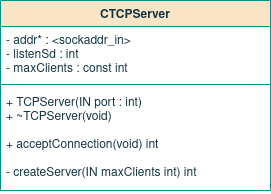
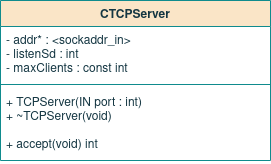
Update Remote sys corrections

diff --git a/report/texts/sw_remote_system.tex b/report/texts/sw_remote_system.tex
@@ -55,7 +55,7 @@ The class \textit{CClient}, represented in figure \ref{fig:CClient}, is responsi
 %****************************
 \myparagraph{Class CDataBase}
 
-%This class diagram is shown in figure \ref{fig:CDataBase}, and is responsible for implement the interface between the server and the database, having for that a pointer to a database of type \textit{MYSQL}. To interact with the database, the server must first prepare a query, using the function \textit{prepareQuery}, and can update or get data from the database, using the prepared query and the functions \textit{updateData} and \textit{getData}, respectively.
+This class diagram is shown in figure \ref{fig:CDataBase}, and is responsible for implement the interface between the server and the database, having for that a pointer to a database of type \textit{MYSQL}. To interact with the database, the server must first prepare a query, using the function \textit{prepareQuery}, and can execute the prepared query in the database using the method \textit{execute}, that returns an error and assigns the command output to the string \textit{outMessage}.
 
 \begin{figure}[H]
 	\centering
@@ -69,13 +69,13 @@ The class \textit{CClient}, represented in figure \ref{fig:CClient}, is responsi
 One can define and describe briefly how the remote system is implemented, making use of threads and processes. 
 
 \begin{itemize}
-	\item \textbf{tSend:} sends a message to the client;
-	\item \textbf{tRecv:} receives a message from the client.
+	\item \textbf{CClient::tSend:} sends a message to the client;
+	\item \textbf{CClient::tRecv:} receives a message from the client.
 \end{itemize}
 
 %**********************************************************
 \subsection{Task Priority}
-The priority assignment for the remote system is shown in figure \ref{fig:rsPrio}. The thread \textit{tRecv} has a higher priority than the thread \textit{tSend} because one never knows when a client is going to send a message. 
+The priority assignment for the remote system is shown in figure \ref{fig:rsPrio}. 
 
 \begin{figure}[H]
 	\centering
@@ -147,7 +147,7 @@ In figure \ref{fig:rsRun} is shown the \textit{CRemoteSystem} run method. Is is 
 %********************************
 \myparagraph{CTCPServer}
 
-In figure \ref{fig:ServerConst} is represented the constructor of the \textit{CTPCServer} class, that is responsible for creating the server socket in the port passed by argument, using the function \textit{createServer}.
+In figure \ref{fig:ServerConst} is represented the constructor of the \textit{CTPCServer} class, that is responsible for creating the server socket in the port passed by argument for a maximum number of clients, \textit{maxClient}. This constructor creates a server socket with the IPv4 protocol connection, initialize the \textit{addr} with the port number passed by argument, binds the socket and listen to a maximum number of clients connections specified by \textit{maxClient} passed by argument.
 
 \begin{figure}[H]
 	\centering
@@ -156,21 +156,12 @@ In figure \ref{fig:ServerConst} is represented the constructor of the \textit{CT
 	\label{fig:ServerConst}
 \end{figure}
 
-The function that creates a server socket for a maximum number of clients, \textit{maxClient}, is represented in figure \ref{fig:RSCreateServer}. This function create a server socket with the IPv4 protocol connection, initialize the \textit{addr} with the port number passed by argument, binds the socket and listen to a maximum number of clients connections specified by \textit{maxClient} passed by argument.
-
-\begin{figure}[H]
-	\centering
-	\includegraphics[width=.25\textwidth]{09sw_specification/RS/CTCPServer/CreateServer}
-	\caption{Flowchart: CTCPServer createServer.}
-	\label{fig:RSCreateServer}
-\end{figure}
-
 In figure \ref{fig:acceptConn} is represented the \textit{acceptConnection} method, that accepts a connection from a client in the socket referenced by the socket file descriptor \textit{listenSd}, returning the file descriptor of the new connection, \textit{sd}.
 
 \begin{figure}[H]
 	\centering
-	\includegraphics[width=.25\textwidth]{09sw_specification/RS/CTCPServer/acceptConnection}
-	\caption{Flowchart: CTCPServer acceptConnection.}
+	\includegraphics[width=.25\textwidth]{09sw_specification/RS/CTCPServer/accept}
+	\caption{Flowchart: CTCPServer accept.}
 	\label{fig:acceptConn}
 \end{figure}
 
@@ -237,8 +228,6 @@ The figure \ref{fig:RSRecv} shows the thread that receive messages from the clie
 	\caption{Flowchart: CClient tRecv.}
 	\label{fig:RSRecv}
 \end{figure}
-
-%In figure \ref{fig:parseExecute} is represented the flowchart of the \textit{parseExecute} function, that is responsible for parsing and execute the message sent by the client. It is needed to verify if the client that sent the command has rights to execute that command, so the message sent is searched in the \textit{cmdList} assigned to the respective client. If the message corresponds to a valid command for that client, then one can prepare a query and execute the command according to the type of command that was sent: \textit{delete} for a data deletion, \textit{update} for a data update and \textit{get} for a data request, returning the command output in a string message \textit{msg}. If the command doesn't exist in the command list of that client, then the \textit{msg} is assigned with an error message. The output of this function is the string message, \textit{msg}.
 
 In figure \ref{fig:parseExecute} is represented the flowchart of the \textit{parseExecute} function, that is responsible for parsing and execute the message sent by the client. It is needed to verify if the client that sent the command has rights to execute that command, so the command sent is searched in the \textit{cmdList} assigned to the respective client. If the message corresponds to a valid command for that client, then one can execute the command. If the command doesn't exist in the command list of that client, then the \textit{msg} is assigned with an error message. The output of this function is the string message to be sent back to the client, \textit{msg}.
 

diff --git a/report/texts/sw_specification.tex b/report/texts/sw_specification.tex
@@ -10,7 +10,7 @@
 %**********************************************************
 \clearpage
 \section{Remote System}
-
+\input{./texts/sw_remote_system}
 
 %**********************************************************
 \clearpage
